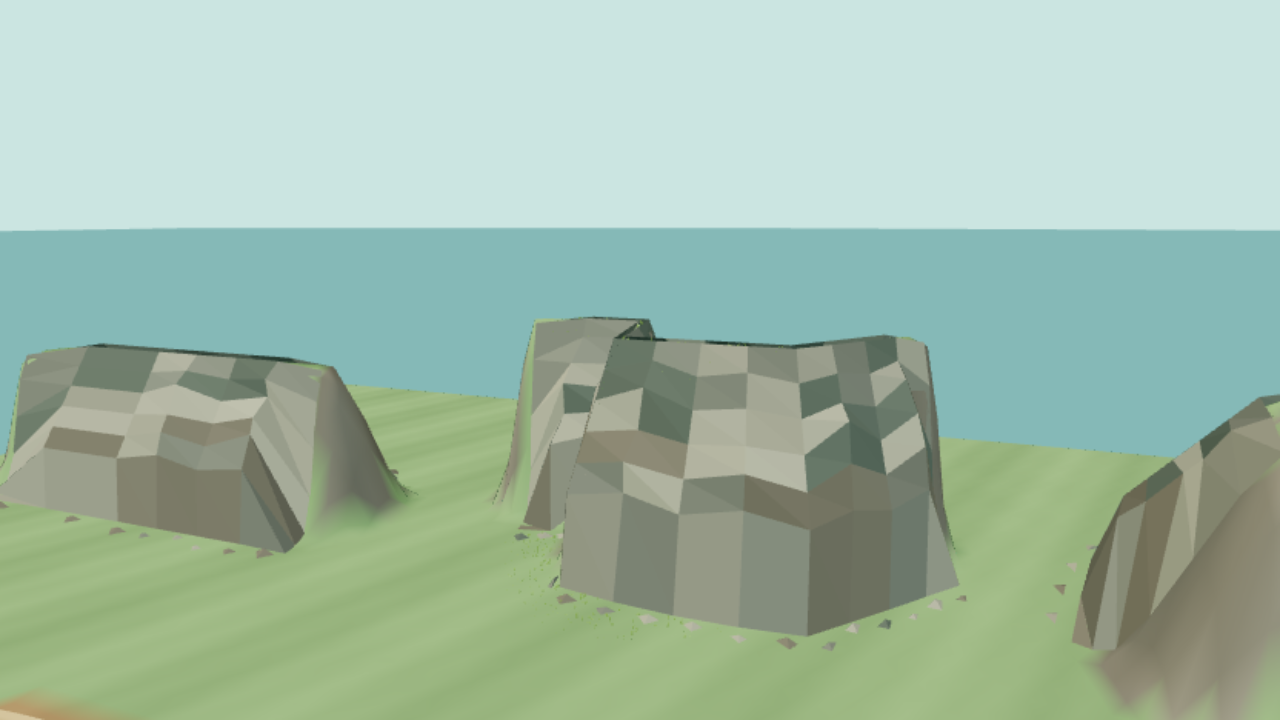
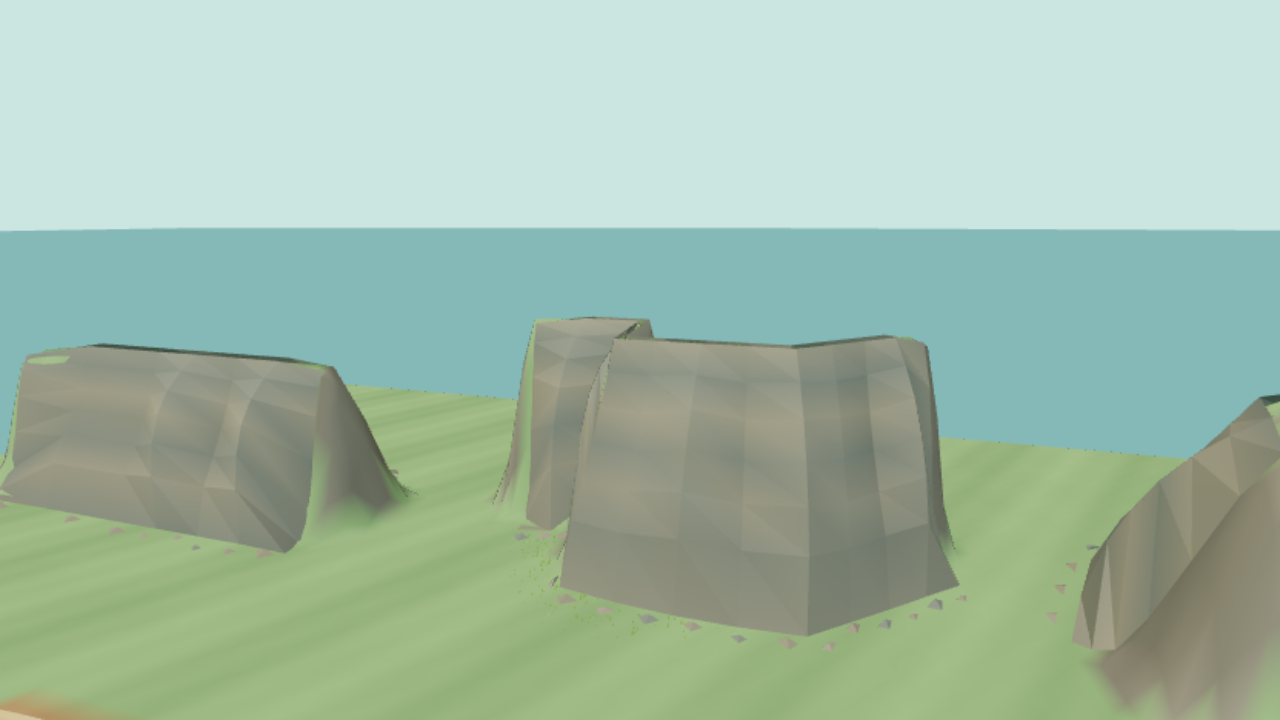
feat(cliffs): soften strata and shade coherent vertical fractures

diff --git a/src/render/cliff-view.ts b/src/render/cliff-view.ts
@@ -45,8 +45,8 @@ function segmentList(def:TerrainGeneratorDefinition|undefined,worldSeed:number):
  return result;
 }
 export interface CliffSlice {a:PointXZ;b:PointXZ;widthM:number;seed:number;startM?:number;endM?:number;normalA?:PointXZ;normalB?:PointXZ;capStart?:boolean;capEnd?:boolean;volcanic?:boolean}
-const ROCK_PALETTE=[0x797f78,0x92958a,0x626e67,0x9da093,0x77766c].map(hex=>new THREE.Color(hex));
-const BASALT_PALETTE=[0x42474b,0x57585a,0x393e43,0x67635e,0x48464a].map(hex=>new THREE.Color(hex));
+const ROCK_PALETTE=[0x929083,0x7c837e,0x8b887c].map(hex=>new THREE.Color(hex));
+const BASALT_PALETTE=[0x505455,0x555753,0x4b5053].map(hex=>new THREE.Color(hex));
 /** Deterministic global-space strata. Shared boundary stations have identical positions
  * independent of segment subdivision, LOD, load order and regeneration. */
 export function buildCliffGeometry(s:CliffSlice,height:(x:number,z:number)=>number,lod:0|1=0):THREE.BufferGeometry{
@@ -58,37 +58,52 @@ export function buildCliffGeometry(s:CliffSlice,height:(x:number,z:number)=>numb
  const start=s.startM??0,end=s.endM??len;
  const positions:number[]=[],colors:number[]=[];
  const pick=(t:number,v:number,side:number,part:number)=>unit(s.seed^Math.imul(Math.round(t*3)+19,7963)^Math.imul(Math.round(v*53)+11,1543)^Math.imul(side+3,997)^Math.imul(part+1,4591));
- function vertex(t:number,v:number,side:number):{x:number;y:number;z:number}{
+ type RockPoint={x:number;y:number;z:number;color?:THREE.Color};
+ const phase=unit(s.seed)*Math.PI*2;
+ // Geological columns follow the whole polyline, including shared stations and both LODs.
+ const fracture=(u:number,side:number)=>(Math.sin(u*.44+phase+side*.7)+.35*Math.sin(u*.91+phase*1.7))/1.35;
+ function stoneColor(p:RockPoint,u:number,v:number,side:number):THREE.Color{
+  // World-height layers replace the per-quad lottery: no checkerboard at segment joins.
+  const warp=.55*Math.sin(p.x*.018+p.z*.012+phase);
+  const layer=(p.y+warp)/(s.volcanic?7:4.8)+phase;
+  const vein=Math.max(0,1-Math.abs(Math.sin(layer*Math.PI))/.18);
+  const column=fracture(u,side),foot=v*v*.10;
+  // Intrinsic cavity shading only, not a baked sun direction: compatible with day/night.
+  const cavity=Math.max(0,-column)*Math.sin(Math.PI*v)*.17;
+  const shade=1-foot-cavity-vein*(s.volcanic ? .035 : .08)+Math.max(0,column)*.025;
+  return palette[0].clone().lerp(palette[1],.5+.5*Math.sin(layer*Math.PI)).multiplyScalar(shade);
+ }
+ function vertex(t:number,v:number,side:number):RockPoint{
   const u=lerp(start,end,t),cx=lerp(s.a.x,s.b.x,t),cz=lerp(s.a.z,s.b.z,t);
   const dx=lerp(na.x,nb.x,t),dz=lerp(na.z,nb.z,t),scale=1/(Math.hypot(dx,dz)||1);
-  const interior=v>0&&v<1&&t>0&&t<1;
-  const rough=interior?(pick(u,v,side,1)-.5)*width*.22:0;
+  const column=fracture(u,side),envelope=Math.sin(Math.PI*v);
+  // Reposition existing vertices into long vertical ribs instead of random band bumps.
+  // Boundaries use the same global u; do not zero the relief at every segment end.
+  const rough=column*width*(s.volcanic ? .28 : .22)*envelope;
   const lateral=width*(.11+1.14*v)+rough;
   const x=cx+dx*scale*side*lateral,z=cz+dz*scale*side*lateral;
   const centerH=height(cx,cz),native=height(x,z);
   const footX=cx+dx*scale*side*width*1.25,footZ=cz+dz*scale*side*width*1.25;
   const footH=height(footX,footZ);
   // Raise interior geological ribs only where a real native slope exists.
-  const relief=Math.max(0,centerH-footH),rib=interior?relief*(.025+.09*pick(u,v,side,2))*Math.sin(Math.PI*v):0;
-  const desired=lerp(centerH,footH,v===0?0:v===1?1:v*.72)+rib;
+  const relief=Math.max(0,centerH-footH),rib=relief*(.025+(s.volcanic ? .18 : .12)*Math.max(0,column))*envelope;
+  const desired=lerp(centerH,footH,v===0?0:v===1?1:v*.88)+rib;
   // Blend open ends into native relief; internal stations retain the shared ring.
   const openEnd=t===0&&s.capStart||t===1&&s.capEnd;
-  return {x,y:openEnd?native+.08:Math.max(native+.24,desired+.24),z};
+  const p:RockPoint={x,y:openEnd?native+.08:Math.max(native+.24,desired+.24),z};
+  p.color=stoneColor(p,u,v,side);return p;
  }
- function tri(p:{x:number;y:number;z:number},q:typeof p,r:typeof p,color:THREE.Color){
-  positions.push(p.x,p.y,p.z,q.x,q.y,q.z,r.x,r.y,r.z);
-  for(let k=0;k<3;k++)colors.push(color.r,color.g,color.b);
+ function tri(p:RockPoint,q:RockPoint,r:RockPoint,color?:THREE.Color){
+  for(const point of [p,q,r]){
+   positions.push(point.x,point.y,point.z);
+   const c=color??point.color!;colors.push(c.r,c.g,c.b);
+  }
  }
  for(const side of [-1,1]){
   const grid=Array.from({length:sta},(_,i)=>Array.from({length:bands},(_,j)=>vertex(i/(sta-1),j/(bands-1),side)));
   for(let i=0;i<sta-1;i++)for(let j=0;j<bands-1;j++){
    const p=grid[i][j],q=grid[i+1][j],r=grid[i+1][j+1],b=grid[i][j+1];
-   // Strata alternate across bands; small colour noise varies faceted rock without a texture.
-   const depth=j/(bands-1),layer=Math.floor(depth*5);
-   const index=(layer+Math.floor(pick(lerp(start,end,(i+.5)/(sta-1)),depth,side,3)*3))%palette.length;
-   const base=palette[index],shade=.86+.25*pick(lerp(start,end,(i+.5)/(sta-1)),depth,side,4);
-   const color=base.clone().multiplyScalar(shade);
-   if(side===1){tri(p,q,r,color);tri(p,r,b,color);}else{tri(p,r,q,color);tri(p,b,r,color);}
+   if(side===1){tri(p,q,r);tri(p,r,b);}else{tri(p,r,q);tri(p,b,r);}
   }
   // Integrated scree apron: a few low-poly shards rooted in the native slope.
   // No individual draw calls, colliders or vegetation entities.

diff --git a/docs/53-CLIFF-REFERENCE.md b/docs/53-CLIFF-REFERENCE.md
@@ -128,9 +128,45 @@ budget commun aux cinq zones, normales plates, couleurs, raccord courbe entre LO
 extrémités ouvertes et couverture d'horizon sur le secteur unique.
 
 Les captures servent à comparer la silhouette, les cassures, les bandes, le pied et
-la transition herbe/terre/roche. Restent à affiner artistiquement : régularité encore
-marquée des bandes, variété des fractures de basalte, densité/lisibilité des petits
-éboulis et douceur du raccord au rebord herbeux. Le plateau reste un relief natif
+la transition herbe/terre/roche. Restent à affiner artistiquement : variété des silhouettes et des fractures de basalte,
+densité/lisibilité des petits éboulis et douceur du raccord au rebord herbeux. Le plateau reste un relief natif
 bordé d'une crête, sans surplomb ; les parois ne constituent pas des colliders séparés.
 Les captures SwiftShader vérifient le rendu et les régressions, pas une performance
 GPU intégrée ni un objectif FPS sur matériel réel.
+
+
+## Essai visuel : couleurs continues et fractures verticales
+
+Le rendu applique maintenant trois ajustements à la génération du même maillage :
+
+- Strates calculées selon l'altitude du monde, légèrement ondulées, avec une palette
+  resserrée et une interpolation par sommet. Les limites des tronçons ne tirent plus
+  une couleur au hasard par quadrilatère : l'effet damier/rayures est atténué.
+- Assombrissement léger du pied et des creux directement dans les vertex colors.
+  C'est une suggestion d'occlusion intrinsèque, sans direction solaire précalculée,
+  SSAO, texture, lumière ou passe de rendu supplémentaire.
+- Déplacement des sommets existants en colonnes cohérentes le long du tracé. Les
+  fractures sont plus profondes pour le basalte. Les coordonnées cumulées conservent
+  la continuité des positions et des couleurs aux jonctions et entre LOD.
+
+Le nombre de triangles, les draw calls des faces rocheuses et la taille des attributs
+restent identiques : **7 128 octets au LOD 0**, **3 240 au LOD 1** par tronçon.
+Les nouvelles opérations s'exécutent seulement à la construction/invalidation du
+maillage ; aucun calcul d'occlusion ni de géologie n'est ajouté à chaque frame.
+Les normales restent plates ; les couleurs peuvent varier à l'intérieur d'une face.
+
+Comparaison aux mêmes points de vue (images initiales conservées au commit `0edac2b`) :
+
+| Avant | Après |
+| --- | --- |
+| ![Droite avant](captures/cliffs/before/cliffs-simple.png) | ![Droite après](captures/cliffs/cliffs-simple.png) |
+| ![Basalte avant](captures/cliffs/before/cliffs-volcanic.png) | ![Basalte après](captures/cliffs/cliffs-volcanic.png) |
+
+Les tests complémentaires vérifient les couleurs communes aux frontières et aux LOD,
+l'orientation des colonnes, l'assombrissement du pied et le budget exact des attributs.
+Les éboulis regroupés et la bande de terre/mousse au rebord restent des pistes pour
+une prochaine itération ; cet essai se concentre sur les trois ajustements ci-dessus.
+
+Validation de cet essai : 447 tests unitaires, TypeScript, build statique, ouverture/
+export ZIP du Studio et sept captures validés. Les compteurs de triangles et de draw
+calls de la scène entière sont identiques à la série initiale pour les sept vues.

diff --git a/docs/captures/cliffs/README.md b/docs/captures/cliffs/README.md
@@ -7,3 +7,7 @@ ainsi que les triangles résidents et la répartition LOD des seules falaises.
 Voir [le guide du laboratoire](../../53-CLIFF-REFERENCE.md) pour ouvrir, modifier,
 exporter et reproduire la scène. La série ajoute une vue des décrochements aux six
 vues minimales demandées. Aucun FPS n'est qualifié par ces captures logicielles.
+
+Les deux images `before/` conservent le rendu initial (`0edac2b`) pour comparer la
+falaise droite et la roche volcanique. Les images à la racine montrent l'essai de
+strates plus douces, d'ombrage dans les couleurs et de fractures verticales.
